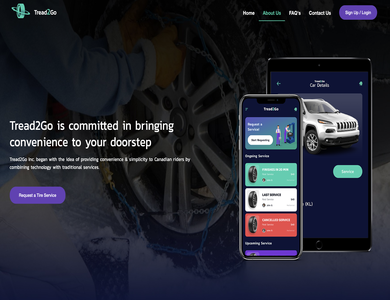
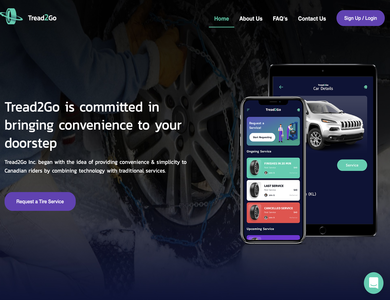
Image sharpness and mobile fixes.

diff --git a/src/app/components/prior-work/product-card/product-card.component.scss b/src/app/components/prior-work/product-card/product-card.component.scss
@@ -8,10 +8,10 @@
    @extend .flex-container;
 
     .template-container{
-        width: 390px;
+        width: 375px;
         min-height:300px;
         border-radius: 10px;
-        background-color: white;
+        background-color: transparent;
         color: black;
         @extend .flex-container;
 
@@ -23,7 +23,7 @@
         img{
             border-radius: 10px;
             height: auto;
-            width: 390px;
+            width: 375px;
         }
 
         .info-container{

diff --git a/src/app/components/prior-work/product-card/product-card.component.html b/src/app/components/prior-work/product-card/product-card.component.html
@@ -6,7 +6,7 @@
     </ng-template>
 
     <ng-template #hovered>
-        <div style="justify-content: space-evenly" class="template-container">
+        <div style="justify-content: space-evenly; background-color:white" class="template-container">
             <div [@flyInBottom] class="info-container">
                 <h2> {{item.title}}</h2>
                 <ng-container *ngFor="let tech of item.technologies">

diff --git a/src/app/components/header/header-item/header-item.component.scss b/src/app/components/header/header-item/header-item.component.scss
@@ -5,13 +5,16 @@ nav {
   display: flex;
   flex-direction: column;
   justify-content: center;
-  width: 6em;
+  width: 4rem;
   font-size: 1.0rem;
   cursor: pointer;
 
-  @include mq-large-min {
-    width: 15rem;
-    font-size: 1.4rem;
+  @include mq-medium-min{
+    width: 8rem;
+  }
+
+  @include mq-large-min{
+    width: 12rem;
   }
 
   nav:first-child {

diff --git a/src/app/components/prior-work/prior-work.component.scss b/src/app/components/prior-work/prior-work.component.scss
@@ -19,11 +19,6 @@
         max-height: 720px;
         overflow-y: scroll;
         overflow-x:hidden;
-
-        app-product-card {
-            margin: 10px;
-        }
-
     }
 
     #scrollbar::-webkit-scrollbar {

diff --git a/src/assets/styles/components/_modal.scss b/src/assets/styles/components/_modal.scss
@@ -85,7 +85,7 @@ modal-component {
         }
 
         .product-card-popup {
-            width: 80%;
+            width: 100%;
             margin-top: 2.5%;
 
             @include mq-large-min {

diff --git a/src/app/components/prior-work/product-card/porfolio-item/porfolio-item.component.scss b/src/app/components/prior-work/product-card/porfolio-item/porfolio-item.component.scss
@@ -116,7 +116,7 @@ ngu-tile {
             height: auto;
 
             @include mq-large-med-min {
-                width: 500px;
+                width: 475px;
             }
         }
 
